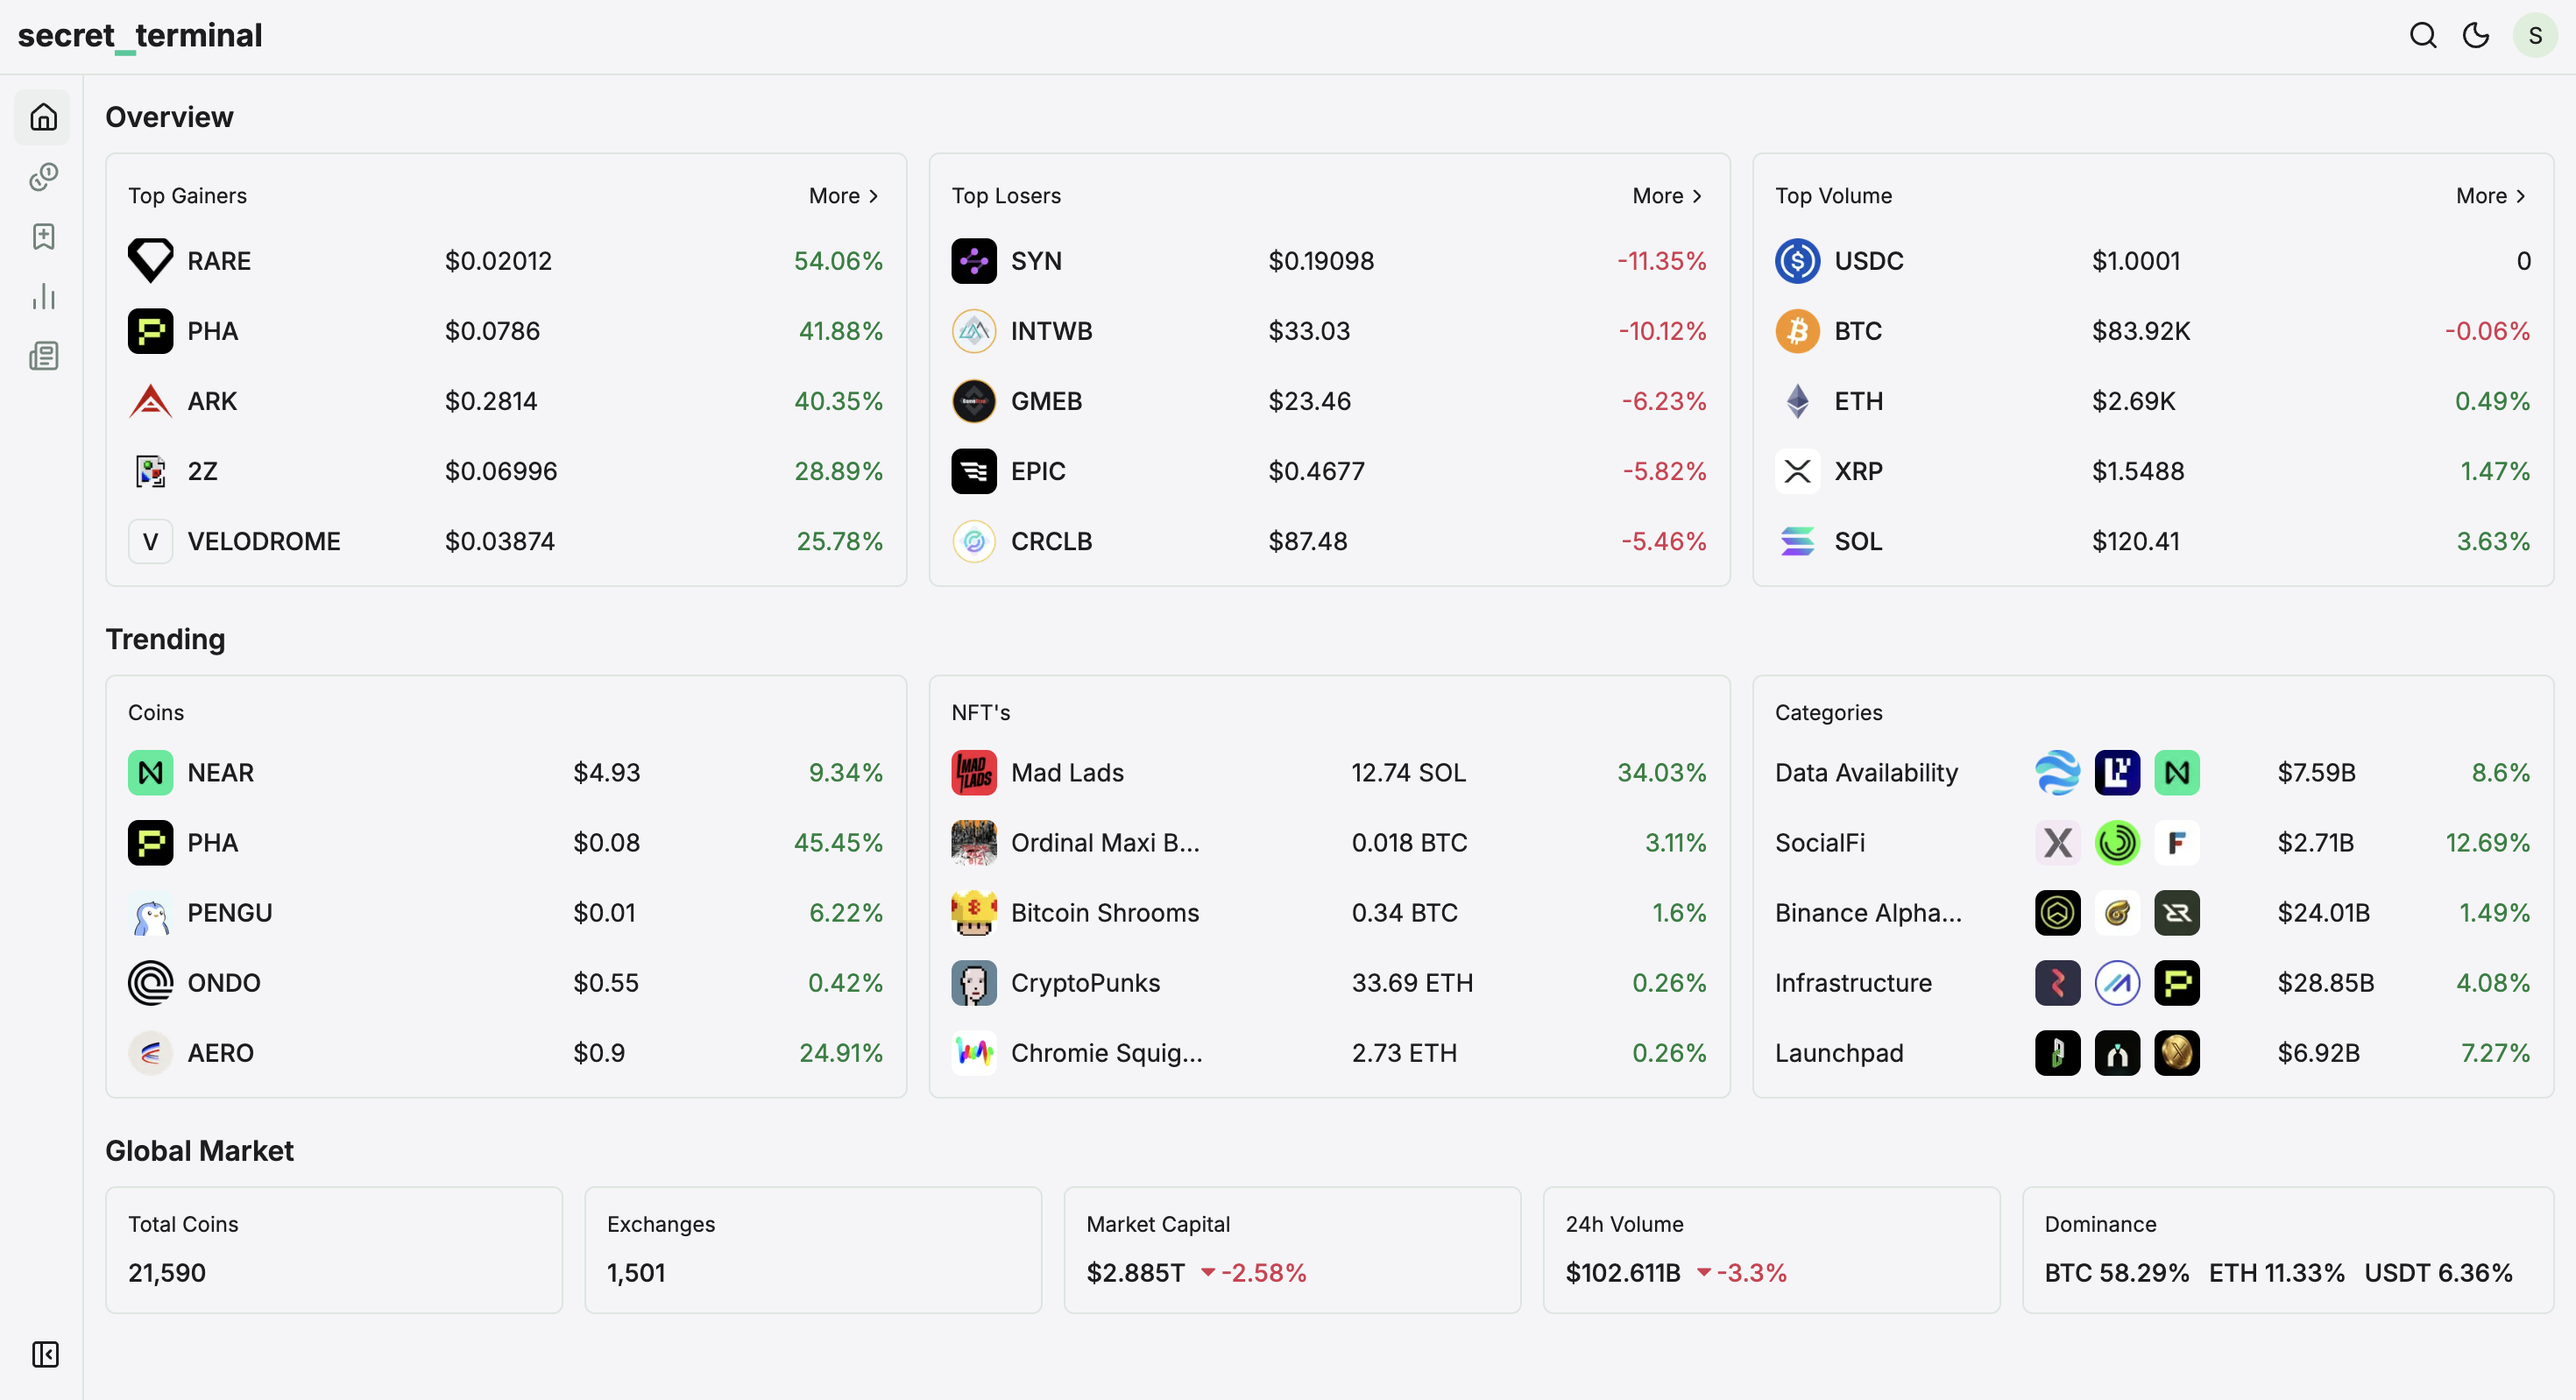
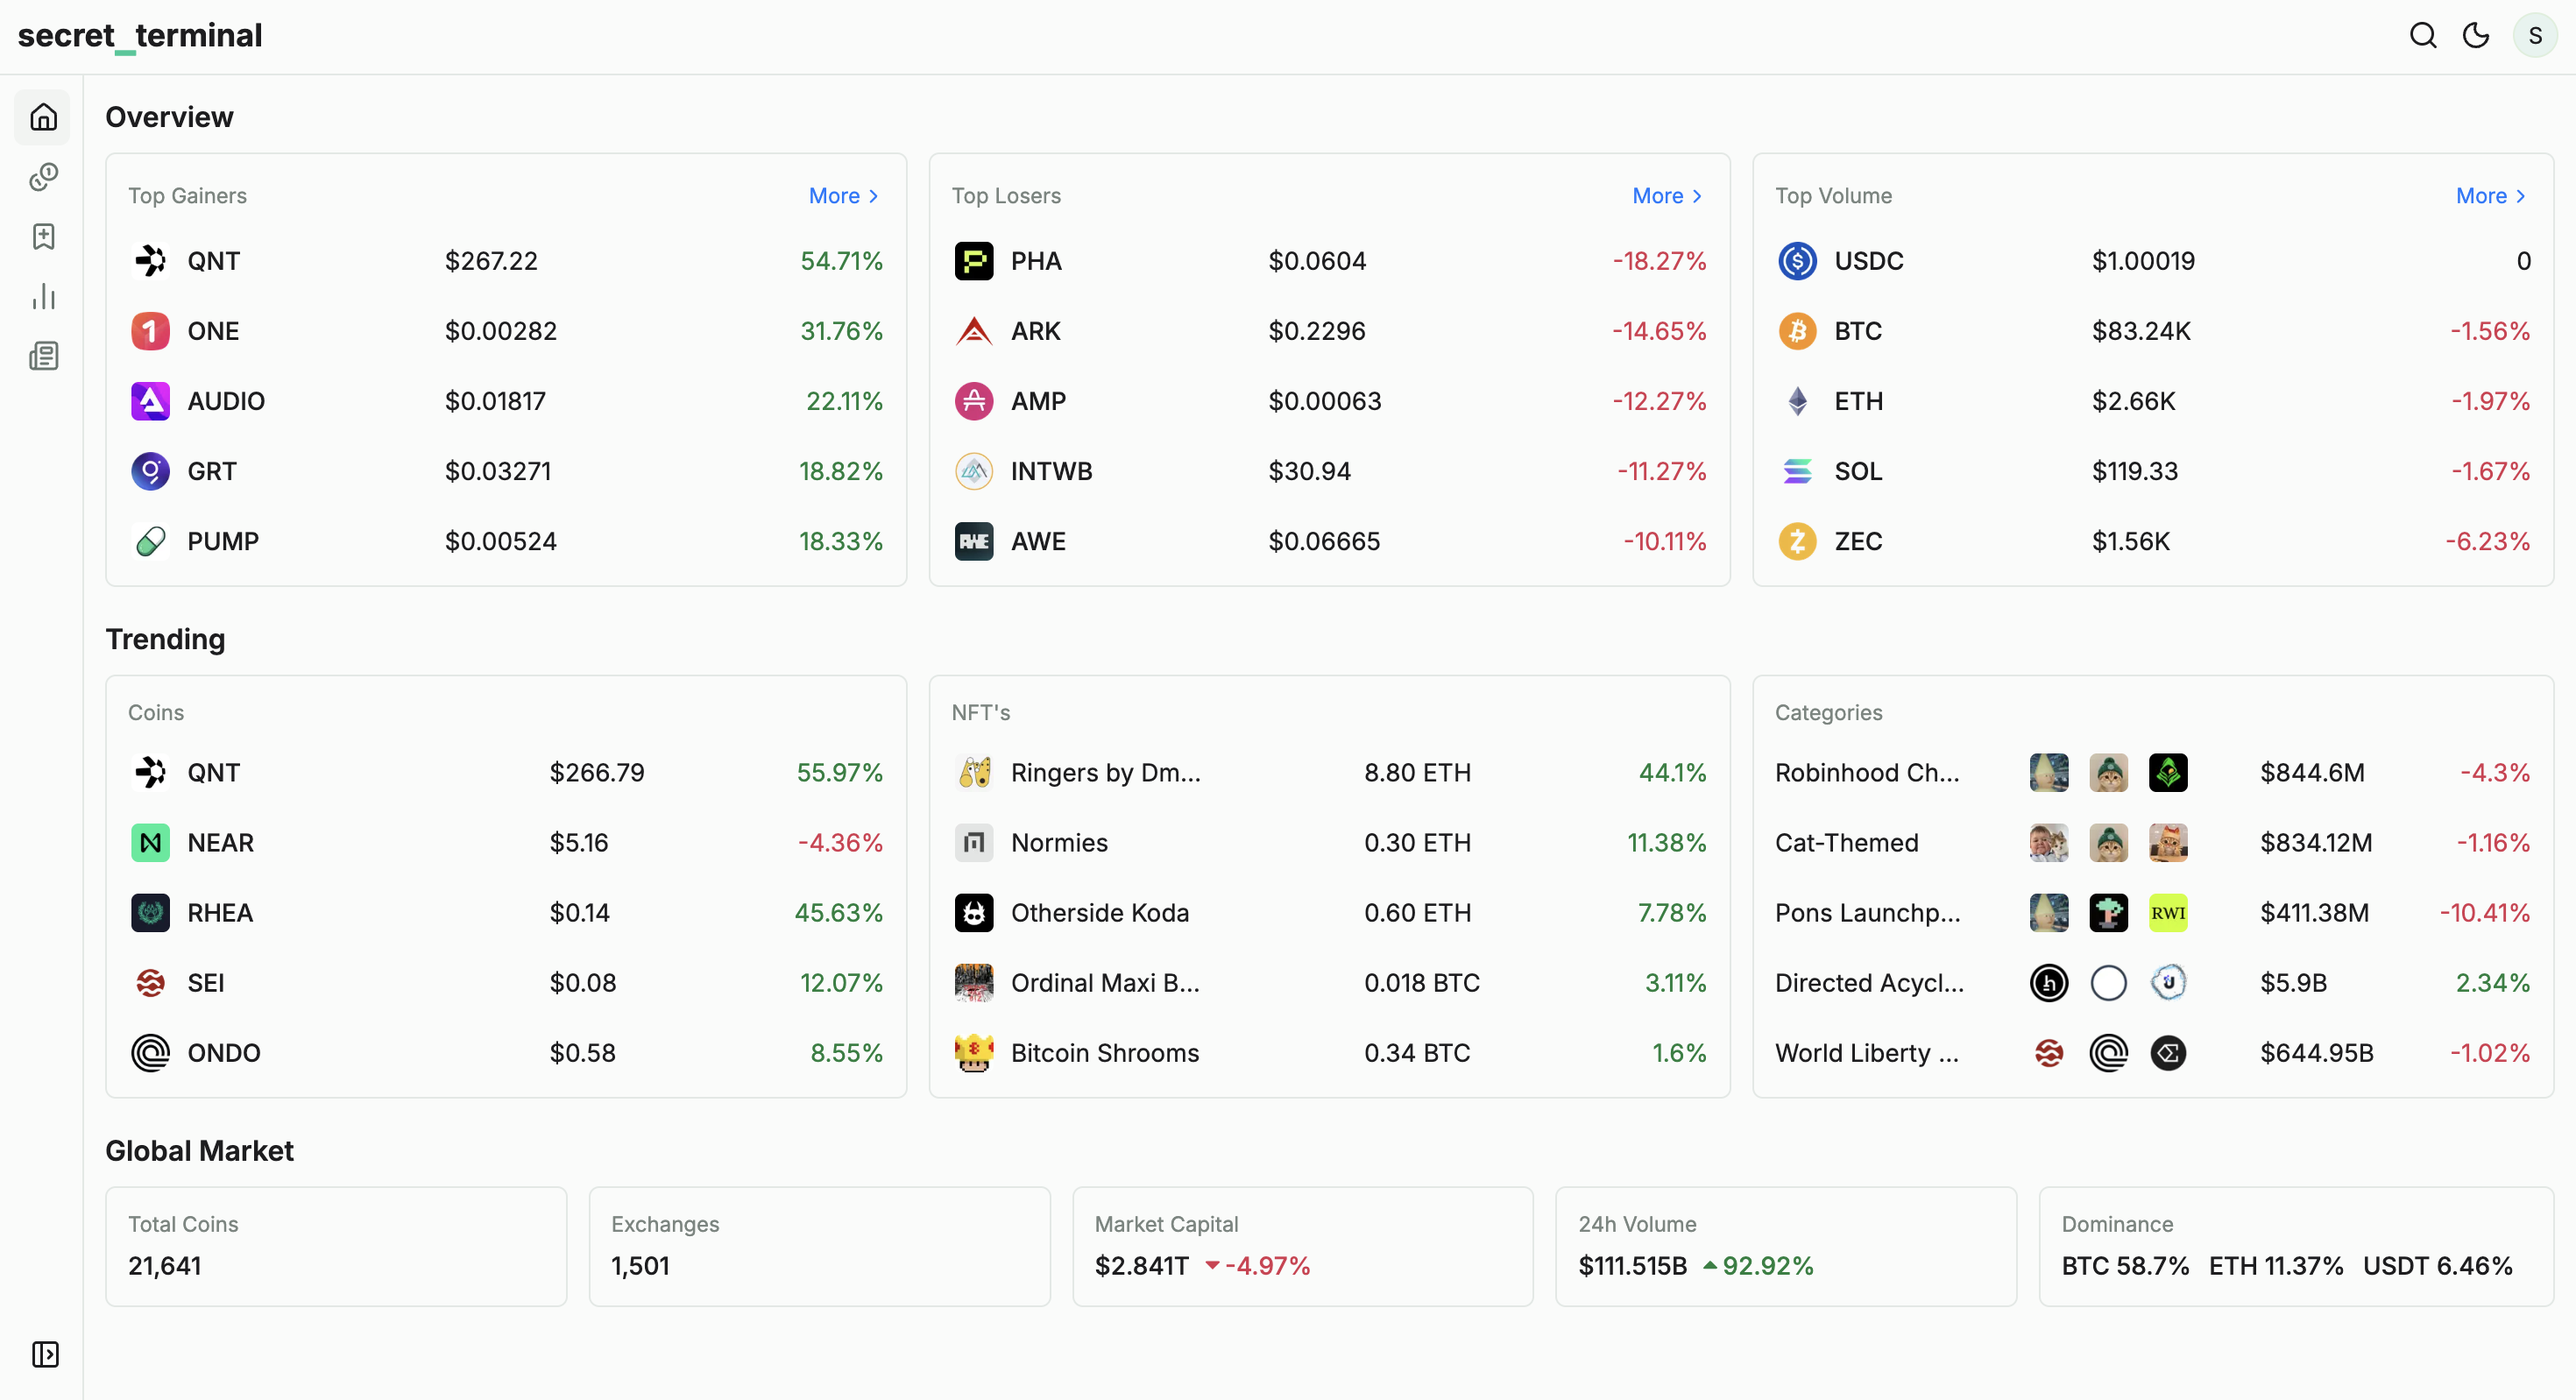
style(color-palette): update colors and text size

diff --git a/apps/frontend/src/app/globals.scss b/apps/frontend/src/app/globals.scss
@@ -1,5 +1,5 @@
-@use "tailwindcss";
-@use "@/styles/main";
+@import "@/styles/main";
+@import "tailwindcss";
 
 @custom-variant dark (&:is(.dark *));
 
@@ -86,16 +86,16 @@
     --sidebar-border: oklch(0.923 0.003 48.717);
     --sidebar-ring: oklch(0.709 0.01 56.259);
 
-    --grey-color-1: #dce5e0;
-    --grey-color-2: #7d8984;
-    --grey-color-3: #64716c;
+    --grey-color-1: #e2e8e5;
+    --grey-color-2: #7a8580;
+    --grey-color-3: #5f6b66;
 
     --main-color: #05c997;
-    --main-bg-color: #f5f5f7;
-    --hover-bg-color: #ebefed;
+    --main-bg-color: #fafbfa;
+    --hover-bg-color: #f1f4f2;
 
     --text-color: #1d1d1f;
-    --st-muted-color: #71857c;
+    --st-muted-color: #68756f;
 
     --border-color: var(--grey-color-1);
     --border-radius: 6px;
@@ -119,7 +119,7 @@
 
     --required-color: #d92d20;
 
-    --shimmer-color: #e4ede8;
+    --shimmer-color: #e8efec;
 
     --tab-text-color: var(--st-muted-color);
     --tab-active-bg-color: var(--main-color);
@@ -128,9 +128,10 @@
     --scrollbar-thumb: #c4cfca;
     --scrollbar-track: #ffffff;
 
-    --profile-bg-color: #dcefdc;
+    --profile-bg-color: #e5f3ef;
 
     --header-height: 45px;
+    --symbol-bg-color: var(--main-bg-color);
 }
 
 .dark {
@@ -180,20 +181,20 @@
 
     --overlay-color: rgba(0, 0, 0, 0.75);
 
-    --border-color: var(--grey-color-1);
+    --border-color: #2d3340;
 
     --row-hover-color: var(--hover-bg-color);
     --th-color: var(--grey-color-3);
     --vrt-th-color: var(--grey-color-3);
 
-    --tab-text-color: #8f96a3;
+    --tab-text-color: #9aa1ad;
     --tab-active-bg-color: var(--main-color);
     --tab-active-text-color: #0f172b;
 
     --danger-color: #ff5c6c;
     --success-color: #35c759;
 
-    --reddit-color: #fafafa;
+    --reddit-color: #ff4500;
     --github-color: #fafafa;
 
     --shimmer-color: #22252d;
@@ -208,6 +209,7 @@
     --scrollbar-track: #111318;
 
     --profile-bg-color: var(--main-bg-color);
+    --symbol-bg-color: #f5f5f7;
 }
 
 @layer base {

diff --git a/apps/frontend/src/styles/_main.scss b/apps/frontend/src/styles/_main.scss
@@ -1,24 +1,24 @@
-@use "@/styles/market-summary";
-@use "@/styles/coin-analysis";
-@use "@/styles/charts";
-@use "@/styles/coins";
-@use "@/styles/tooltip";
-@use "@/styles/header";
-@use "@/styles/st-dialog";
-@use "@/styles/coin-details-dialog";
-@use "@/styles/global-market-stats";
-@use "@/styles/navigation-tab-bar";
-@use "@/styles/footer";
-@use "@/styles/coin-search-dialog";
-@use "@/styles/trending";
-@use "@/styles/sign-in";
-@use "@/styles/form";
-@use "@/styles/table";
-@use "@/styles/news";
-@use "@/styles/watchlist";
-@use "@/styles/st-select";
-@use "@/styles/st-sidebar";
-@use "@/styles/st-toast";
+@use "market-summary";
+@use "coin-analysis";
+@use "charts";
+@use "coins";
+@use "tooltip";
+@use "header";
+@use "st-dialog";
+@use "coin-details-dialog";
+@use "global-market-stats";
+@use "navigation-tab-bar";
+@use "footer";
+@use "coin-search-dialog";
+@use "trending";
+@use "sign-in";
+@use "form";
+@use "table";
+@use "news";
+@use "watchlist";
+@use "st-select";
+@use "st-sidebar";
+@use "st-toast";
 
 body {
     color: var(--text-color);

diff --git a/apps/frontend/src/styles/_market-summary.scss b/apps/frontend/src/styles/_market-summary.scss
@@ -25,11 +25,18 @@
                 display: flex;
                 align-items: center;
                 justify-content: space-between;
+                color: var(--th-color);
 
                 .more-link {
                     cursor: pointer;
                     display: flex;
                     align-items: center;
+                    color: #007aff;
+
+                    &:hover {
+                        text-decoration: underline;
+                        font-weight: 500;
+                    }
 
                     .lucide-chevron-right {
                         width: 13px;

diff --git a/apps/frontend/src/components/ui/menu.tsx b/apps/frontend/src/components/ui/menu.tsx
@@ -95,8 +95,7 @@ function DropdownMenuItem({
                 `relative flex cursor-pointer items-center gap-2
                 rounded-sm p-[4px_6px] text-[13px]
                 outline-hidden select-none
-                focus:bg-accent
-                focus:text-accent-foreground
+                focus:bg-[var(--row-hover-color)]
                 data-[disabled]:pointer-events-none
                 data-[disabled]:opacity-50
                 data-[inset]:pl-8

diff --git a/apps/frontend/src/app/layout.tsx b/apps/frontend/src/app/layout.tsx
@@ -1,9 +1,9 @@
-import type { Metadata } from "next";
 import "./globals.scss";
 import { Inter } from "next/font/google";
 import { Analytics } from "@vercel/analytics/next";
 import { Toaster } from "@/components/ui/toast";
 import { ThemeProvider } from "@/contexts/theme.context";
+import type { Metadata } from "next";
 import type { Viewport } from "next";
 
 const inter = Inter({

diff --git a/apps/frontend/src/components/features/account/account-centre.tsx b/apps/frontend/src/components/features/account/account-centre.tsx
@@ -79,7 +79,7 @@ function ProfileDropdown(bindings: PdBindings) {
 
                     <DropdownMenuContent
                         align="center"
-                        className="m-[10px_5px_30px_10px]"
+                        className="m-[4px_4px_30px_10px]"
                     >
                         <DropdownMenuGroup>
                             <DropdownMenuItem

diff --git a/apps/frontend/src/styles/_coin-analysis.scss b/apps/frontend/src/styles/_coin-analysis.scss
@@ -93,7 +93,7 @@
                 display: flex;
                 flex-wrap: wrap;
 
-                [data-slot='tabs'] {
+                [data-slot="tabs"] {
                     margin-right: 14px;
                     margin-bottom: 16px;
                 }

diff --git a/apps/frontend/src/styles/_global-market-stats.scss b/apps/frontend/src/styles/_global-market-stats.scss
@@ -19,7 +19,8 @@
 
             .label {
                 font-size: 12px;
-                margin-bottom: 8px;
+                margin-bottom: 4px;
+                color: var(--th-color);
             }
 
             .value {

diff --git a/apps/frontend/src/styles/_trending.scss b/apps/frontend/src/styles/_trending.scss
@@ -22,6 +22,7 @@
             .header {
                 font-size: 12px;
                 margin-bottom: 12px;
+                color: var(--th-color);
             }
 
             .trending-table-wrapper {

diff --git a/apps/frontend/src/styles/_coins.scss b/apps/frontend/src/styles/_coins.scss
@@ -141,6 +141,8 @@
         height: 26px;
         min-width: 26px;
         max-width: 26px;
+        background-color: var(--symbol-bg-color);
+        padding: 2px;
     }
 
     .coin-letter-mark {
